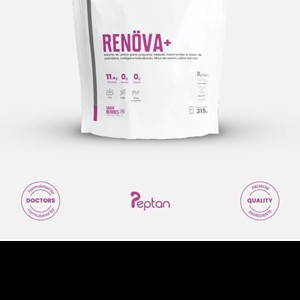
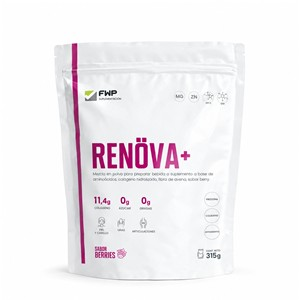
Simplifica tarjetas de ingredientes a solo texto y usa la foto oficial de RENOVA+ en la comparacion

diff --git a/productos/renova.html b/productos/renova.html
@@ -179,16 +179,16 @@
     <p class="sec-sub">Cada porción combina 10 ingredientes activos pensados para trabajar juntos.</p>
   </div>
   <div class="ing-grid">
-    <div class="ing-card"><img src="../assets/ingredientes/colageno.jpg" alt="Colágeno hidrolizado"><div class="ing-card-body"><b>Biopéptidos activos de colágeno</b><span>11,5 g por porción. Firmeza para la piel y soporte para las articulaciones.</span></div></div>
-    <div class="ing-card"><img src="../assets/ingredientes/resveratrol.jpg" alt="Resveratrol"><div class="ing-card-body"><b>Resveratrol</b><span>Antioxidante que combate el estrés oxidativo y ayuda a la longevidad celular.</span></div></div>
-    <div class="ing-card"><img src="../assets/ingredientes/vitamina-c.jpg" alt="Vitamina C"><div class="ing-card-body"><b>Vitamina C</b><span>Necesaria para que el cuerpo forme colágeno propio.</span></div></div>
-    <div class="ing-card"><img src="../assets/ingredientes/coq10.jpg" alt="Coenzima Q10"><div class="ing-card-body"><b>Coenzima Q10</b><span>Antioxidante que contribuye a la regeneración celular.</span></div></div>
-    <div class="ing-card"><img src="../assets/ingredientes/magnesio.jpg" alt="Magnesio"><div class="ing-card-body"><b>Magnesio</b><span>Ayuda a fortalecer los huesos con cada toma.</span></div></div>
-    <div class="ing-card"><img src="../assets/ingredientes/zinc.jpg" alt="Zinc"><div class="ing-card-body"><b>Zinc</b><span>Contribuye a mejorar tu sistema inmunológico.</span></div></div>
-    <div class="ing-card"><img src="../assets/ingredientes/arandano.jpg" alt="Arándano"><div class="ing-card-body"><b>Arándano</b><span>Antioxidantes extra en cada porción.</span></div></div>
-    <div class="ing-card"><img src="../assets/ingredientes/fibra-avena.jpg" alt="Fibra de avena"><div class="ing-card-body"><b>Fibra de avena</b><span>Ayuda a la digestión y aporta saciedad.</span></div></div>
-    <div class="ing-card"><img src="../assets/ingredientes/fibra-inulina.jpg" alt="Fibra natural de inulina"><div class="ing-card-body"><b>Fibra natural de inulina</b><span>Fibra prebiótica que acompaña la salud digestiva.</span></div></div>
-    <div class="ing-card"><img src="../assets/ingredientes/niacina.jpg" alt="Niacina"><div class="ing-card-body"><b>Niacina</b><span>Aporta a la vitalidad general del organismo.</span></div></div>
+    <div class="ing-card"><div class="ing-card-body"><b>Biopéptidos activos de colágeno</b><span>11,5 g por porción. Firmeza para la piel y soporte para las articulaciones.</span></div></div>
+    <div class="ing-card"><div class="ing-card-body"><b>Resveratrol</b><span>Antioxidante que combate el estrés oxidativo y ayuda a la longevidad celular.</span></div></div>
+    <div class="ing-card"><div class="ing-card-body"><b>Vitamina C</b><span>Necesaria para que el cuerpo forme colágeno propio.</span></div></div>
+    <div class="ing-card"><div class="ing-card-body"><b>Coenzima Q10</b><span>Antioxidante que contribuye a la regeneración celular.</span></div></div>
+    <div class="ing-card"><div class="ing-card-body"><b>Magnesio</b><span>Ayuda a fortalecer los huesos con cada toma.</span></div></div>
+    <div class="ing-card"><div class="ing-card-body"><b>Zinc</b><span>Contribuye a mejorar tu sistema inmunológico.</span></div></div>
+    <div class="ing-card"><div class="ing-card-body"><b>Arándano</b><span>Antioxidantes extra en cada porción.</span></div></div>
+    <div class="ing-card"><div class="ing-card-body"><b>Fibra de avena</b><span>Ayuda a la digestión y aporta saciedad.</span></div></div>
+    <div class="ing-card"><div class="ing-card-body"><b>Fibra natural de inulina</b><span>Fibra prebiótica que acompaña la salud digestiva.</span></div></div>
+    <div class="ing-card"><div class="ing-card-body"><b>Niacina</b><span>Aporta a la vitalidad general del organismo.</span></div></div>
   </div>
 </div>
 
